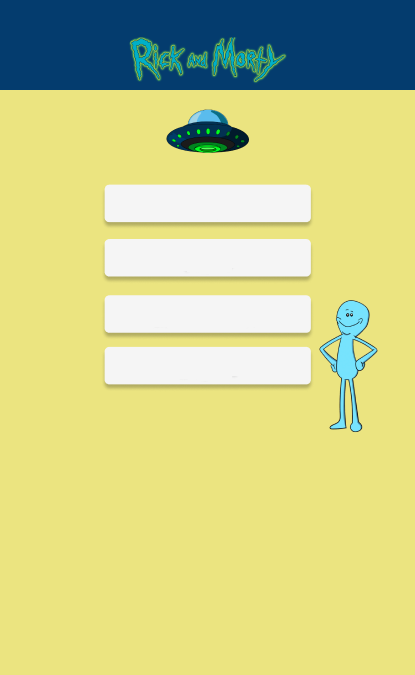
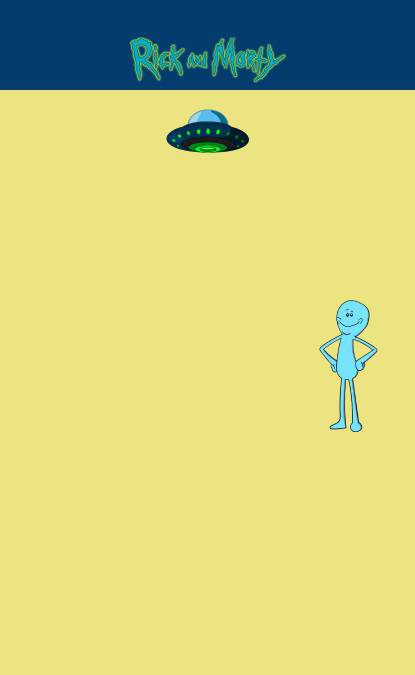
Clean up on Login Form, Main Screen

Changed region(s): [[0.2313, 0.2489, 0.7518, 0.5911]]

diff --git a/src/Screens/MainScreen.js b/src/Screens/MainScreen.js
@@ -4,62 +4,50 @@ import {StyleSheet, Text, View, Button, ImageBackground} from 'react-native';
 export default function MainScreen({navigation, route}) {
     return (
         <View style={styles.container}>
-
-
             <ImageBackground
                 source={require('../Assets/main.png')}
                 resizeMode='cover'
                 position='absolute'
-                style={{flex: 1}}
+                style={{ flex: 1 }}
             >
-
-
-                <Text style={styles.text}> </Text>
-                <Text style={styles.text}> </Text>
-                <Text style={styles.text}> </Text>
-                <Text style={styles.text}> </Text>
-                <Text style={styles.text}> </Text>
-                <Text style={styles.text}> </Text>
-                <Text style={styles.text}> </Text>
-                <Text style={styles.text}> </Text>
-                <Text style={styles.text}> </Text>
-                <Text style={styles.text}> </Text>
-
-                <Button
-                    style={styles.button}
-                    title="Profile"
-                    onPress={() => navigation.navigate("User", {language: "e"})}
-                />
-
-                <Text style={styles.text}> </Text>
-                <Button
-                    style={styles.button}
-                    title="Top 10"
-                    onPress={() => navigation.navigate("Stats", {language: "french"})}
-                />
-                <Text style={styles.text}> </Text>
-                <Button
-                    style={styles.button}
-                    title="Trivia"
-                    onPress={() => navigation.navigate("Trivia", {language: "e"})}
-                />
-                <Button
-                    style={styles.button}
-                    title="Character List"
-                    onPress={() => navigation.navigate("Characters", {language: "french"})}
-                />
-                <Text style={styles.text}> </Text>
-                <Button
-                    style={styles.button}
-                    title="log Out"
-                    onPress={() => navigation.navigate("Second", {language: "french"})}
-                />
-                <Text style={styles.text}/>
-
-
+                <View style={styles.center}>
+                    <Button
+                        style={styles.button}
+                        title="Profile"
+                        onPress={() => navigation.navigate('User', { language: 'e' })}
+                    />
+                    <Button
+                        style={styles.button}
+                        title="Top 10"
+                        onPress={() =>
+                            navigation.navigate('Stats', { language: 'french' })
+                        }
+                    />
+                    <Button
+                        style={styles.button}
+                        title="Trivia"
+                        onPress={() =>
+                            navigation.navigate('Trivia', { language: 'e' })
+                        }
+                    />
+                    <Button
+                        style={styles.button}
+                        title="Character List"
+                        onPress={() =>
+                            navigation.navigate('Characters', {
+                                language: 'french',
+                            })
+                        }
+                    />
+                    <Button
+                        style={styles.button}
+                        title="Log Out"
+                        onPress={() =>
+                            navigation.navigate('Second', { language: 'french' })
+                        }
+                    />
+                </View>
             </ImageBackground>
-
-
         </View>
     );
 }
@@ -68,23 +56,17 @@ const styles = StyleSheet.create({
     container: {
         flex: 1,
         backgroundColor: '#EBE480',
-
     },
-    image: {
+    center: {
         flex: 1,
-        width: 429,
-        height: 429,
         justifyContent: 'center',
-        //borderColor: 'red',
-        //borderWidth: 5,
+        alignItems: 'center',
     },
     button: {
-        flex: 1,
+        margin: 10,
+        padding: 10,
         borderWidth: 2,
-        Color: 'midnightblue',
         borderColor: 'blue',
-        padding: 2,
-        alignItems: 'left'
+        borderRadius: 10,
     },
-
 });

diff --git a/src/Components/LoginForm.js b/src/Components/LoginForm.js
@@ -1,7 +1,7 @@
 import React from 'react';
 import { Formik, Field, ErrorMessage } from 'formik';
 import * as Yup from 'yup';
-import {Button, TextInput, View, Text} from "react-native";
+import {Button, TextInput, View, Text, StyleSheet} from "react-native";
 
 const validationSchema = Yup.object().shape({
     username: Yup.string()
@@ -25,10 +25,12 @@ export const LoginForm = ({ onSubmit }) => {
             onSubmit={onSubmit}
         >
             {({ handleSubmit }) => (
+
                 <View>
                     <Field name="username">
                         {({ field }) => (
                             <TextInput
+                                style={styles.input}
                                 onChangeText={field.onChange('username')}
                                 value={field.value}
                                 placeholder="Username or Email"
@@ -36,11 +38,12 @@ export const LoginForm = ({ onSubmit }) => {
                         )}
                     </Field>
 
-                    <ErrorMessage name="username" component={Text} />
+                    <ErrorMessage style={styles.error} name="username" component={Text} />
 
                     <Field name="password">
                         {({ field }) => (
                             <TextInput
+                                style={styles.input}
                                 onChangeText={field.onChange('password')}
                                 value={field.value}
                                 placeholder="Password"
@@ -49,11 +52,55 @@ export const LoginForm = ({ onSubmit }) => {
                         )}
                     </Field>
 
-                    <ErrorMessage name="password" component={Text} />
+                    <ErrorMessage style={styles.error} name="password" component={Text} />
 
-                    <Button title="Login" onPress={handleSubmit} />
+                    <Button
+                        style={styles.button}
+                        title="Login"
+                        onPress={handleSubmit}  />
                 </View>
+
             )}
         </Formik>
     );
 };
+
+const styles = StyleSheet.create({
+    container: {
+        flex: 1,
+        padding: 20,
+        borderRadius: 10,
+        backgroundColor: '#007bff',
+    },
+    label: {
+        fontSize: 20,
+        fontWeight: 'bold',
+        color: '#fff',
+        marginBottom: 10,
+    },
+    input: {
+        fontSize: 16,
+        padding: 10,
+        backgroundColor: '#fff',
+        borderRadius: 5,
+        shadowColor: '#000',
+        shadowOffset: { width: 0, height: 2 },
+        shadowOpacity: 0.2,
+        shadowRadius: 4,
+        marginBottom: 15,
+        width: 250
+    },
+    error: {
+        color: 'red',
+        fontSize: 14,
+        backgroundColor: '#eee',
+        opacity: 0.7,
+    },
+    button: {
+        backgroundColor: '#28a745',
+        color: '#fff',
+        padding: 10,
+        borderRadius: 5,
+        marginTop: 20,
+    },
+});

diff --git a/src/Screens/LoginScreen.js b/src/Screens/LoginScreen.js
@@ -18,7 +18,7 @@ export const LoginScreen = ({navigation}) => {
 
 
         <ImageBackground source={RAMBackground} style={styles.container}>
-                <LoginForm onSubmit={handleLogin}/>
+            <LoginForm onSubmit={handleLogin}/>
         </ImageBackground>
 
     );
@@ -32,15 +32,12 @@ const styles = StyleSheet.create({
         justifyContent: 'center'
 
     },
-    backgroundImage: {
-
-    },
+    backgroundImage: {},
 
     footerContainer: {
         flex: 1 / 1,
         alignItems: 'center',
     },
-
     textinput: {
         fontSize: 20,
         color: 'blue',
@@ -48,24 +45,20 @@ const styles = StyleSheet.create({
         borderColor: '#7fffd4',
         margin: 10
     },
-
     text: {
         fontSize: 10,
         color: '#7fffd4'
     },
-
     text2: {
         fontSize: 20,
         color: '#7fffd4'
     },
-
 
     button: {
         flex: 1,
         borderWidth: 2,
         padding: 2
     },
-
     image: {
         flex: .5,
         justifyContent: 'center',
